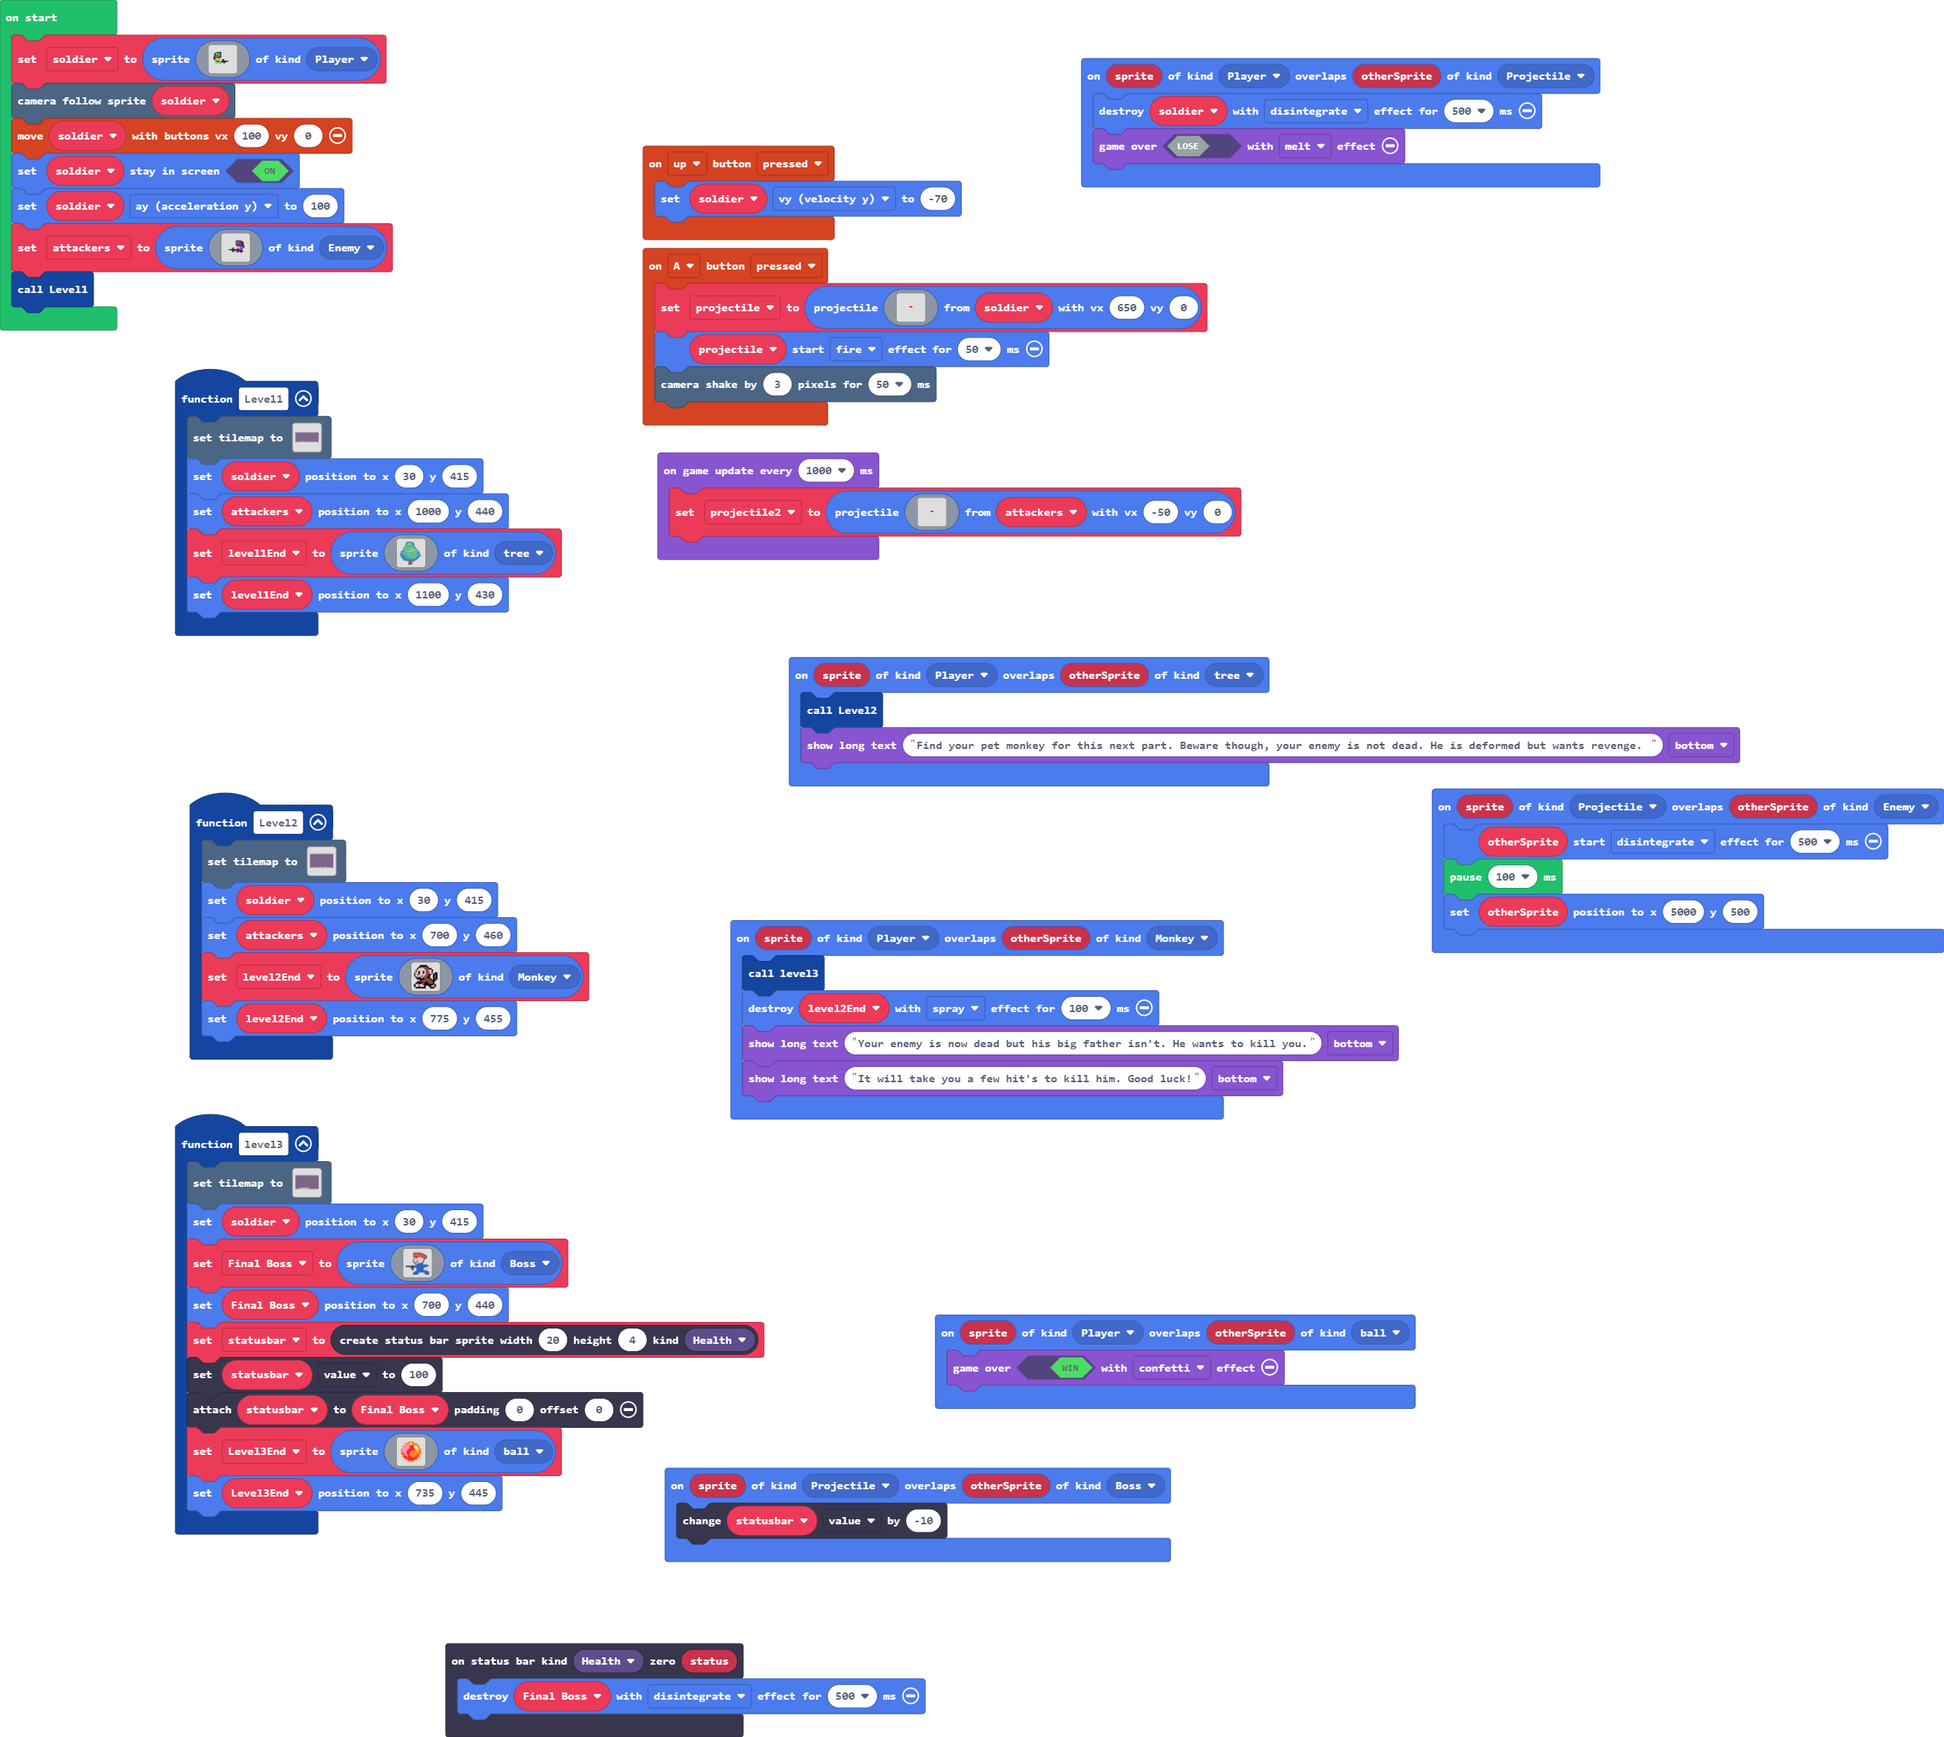
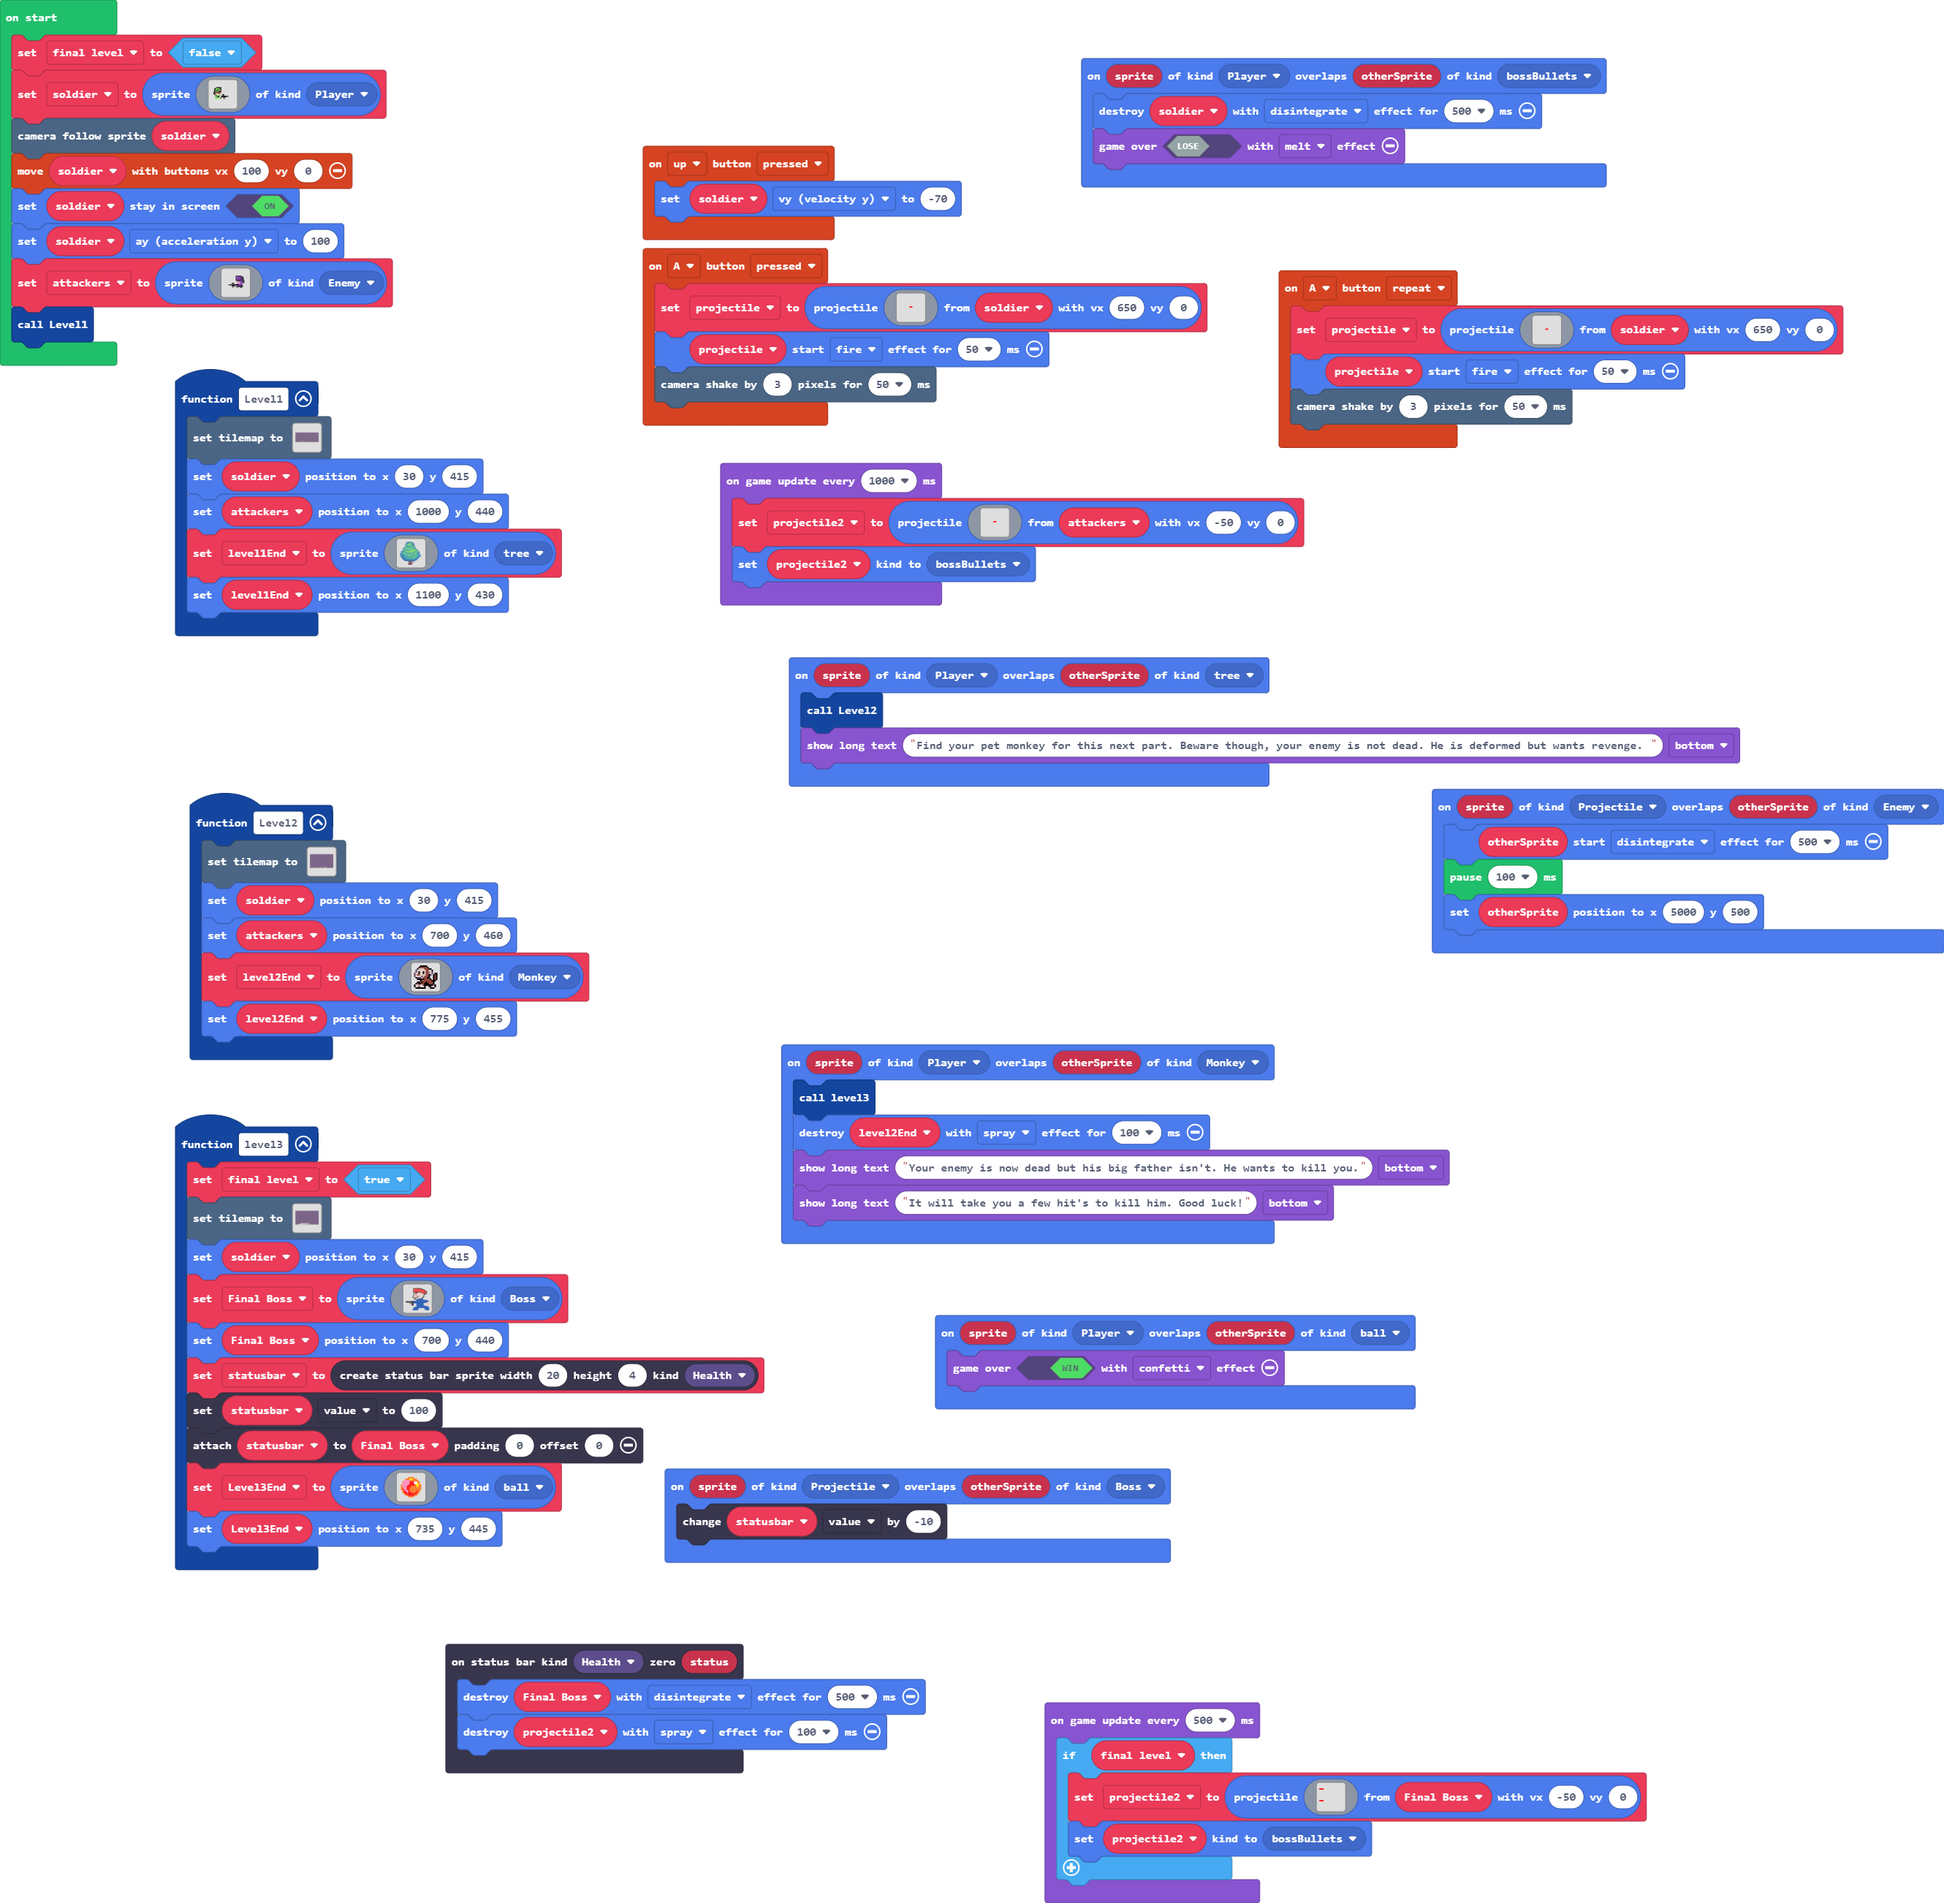
Update main.blocks, main.ts

diff --git a/main.ts b/main.ts
@@ -3,6 +3,7 @@ namespace SpriteKind {
     export const Monkey = SpriteKind.create()
     export const ball = SpriteKind.create()
     export const Boss = SpriteKind.create()
+    export const bossBullets = SpriteKind.create()
 }
 controller.up.onEvent(ControllerButtonEvent.Pressed, function () {
     soldier.vy = -70
@@ -67,6 +68,7 @@ sprites.onOverlap(SpriteKind.Projectile, SpriteKind.Boss, function (sprite, othe
     statusbar.value += -10
 })
 function level3 () {
+    final_level = true
     tiles.setTilemap(tilemap`level4`)
     soldier.setPosition(30, 415)
     Final_Boss = sprites.create(img`
@@ -196,8 +198,31 @@ function Level1 () {
 }
 statusbars.onZero(StatusBarKind.Health, function (status) {
     Final_Boss.destroy(effects.disintegrate, 500)
+    projectile2.destroy(effects.spray, 100)
 })
-sprites.onOverlap(SpriteKind.Player, SpriteKind.Projectile, function (sprite, otherSprite) {
+controller.A.onEvent(ControllerButtonEvent.Repeated, function () {
+    projectile = sprites.createProjectileFromSprite(img`
+        . . . . . . . . . . . . . . . . 
+        . . . . . . . . . . . . . . . . 
+        . . . . . . . . . . . . . . . . 
+        . . . . . . . . . . . . . . . . 
+        . . . . . . . . . . . . . . . . 
+        . . . . . . . . . . . . . . . . 
+        . . . . . . . . . . . . . . . . 
+        . . . . . . . 2 2 . . . . . . . 
+        . . . . . . . . . . . . . . . . 
+        . . . . . . . . . . . . . . . . 
+        . . . . . . . . . . . . . . . . 
+        . . . . . . . . . . . . . . . . 
+        . . . . . . . . . . . . . . . . 
+        . . . . . . . . . . . . . . . . 
+        . . . . . . . . . . . . . . . . 
+        . . . . . . . . . . . . . . . . 
+        `, soldier, 650, 0)
+    projectile.startEffect(effects.fire, 50)
+    scene.cameraShake(3, 50)
+})
+sprites.onOverlap(SpriteKind.Player, SpriteKind.bossBullets, function (sprite, otherSprite) {
     soldier.destroy(effects.disintegrate, 500)
     game.over(false, effects.melt)
 })
@@ -218,6 +243,8 @@ let projectile: Sprite = null
 let level2End: Sprite = null
 let attackers: Sprite = null
 let soldier: Sprite = null
+let final_level = false
+final_level = false
 soldier = sprites.create(img`
     ..............................
     ..............................
@@ -306,4 +333,28 @@ game.onUpdateInterval(1000, function () {
         . . . . . . . . . . . . . . . . 
         . . . . . . . . . . . . . . . . 
         `, attackers, -50, 0)
+    projectile2.setKind(SpriteKind.bossBullets)
+})
+game.onUpdateInterval(500, function () {
+    if (final_level) {
+        projectile2 = sprites.createProjectileFromSprite(img`
+            . . . . . . . . . . . . . . . . 
+            . . . . . . . . . . . . . . . . 
+            2 2 2 . . . . . . . . . . . . . 
+            . . . . . . . . . . . . . . . . 
+            . . . . . . . . . . . . . . . . 
+            . . . . . . . . . . . . . . . . 
+            . . . . . . . . . . . . . . . . 
+            . . . . . . . . . . . . . . . . 
+            . . . . . . . . . . . . . . . . 
+            . . . . . . . . . . . . . . . . 
+            2 2 2 . . . . . . . . . . . . . 
+            . . . . . . . . . . . . . . . . 
+            . . . . . . . . . . . . . . . . 
+            . . . . . . . . . . . . . . . . 
+            . . . . . . . . . . . . . . . . 
+            . . . . . . . . . . . . . . . . 
+            `, Final_Boss, -50, 0)
+        projectile2.setKind(SpriteKind.bossBullets)
+    }
 })
